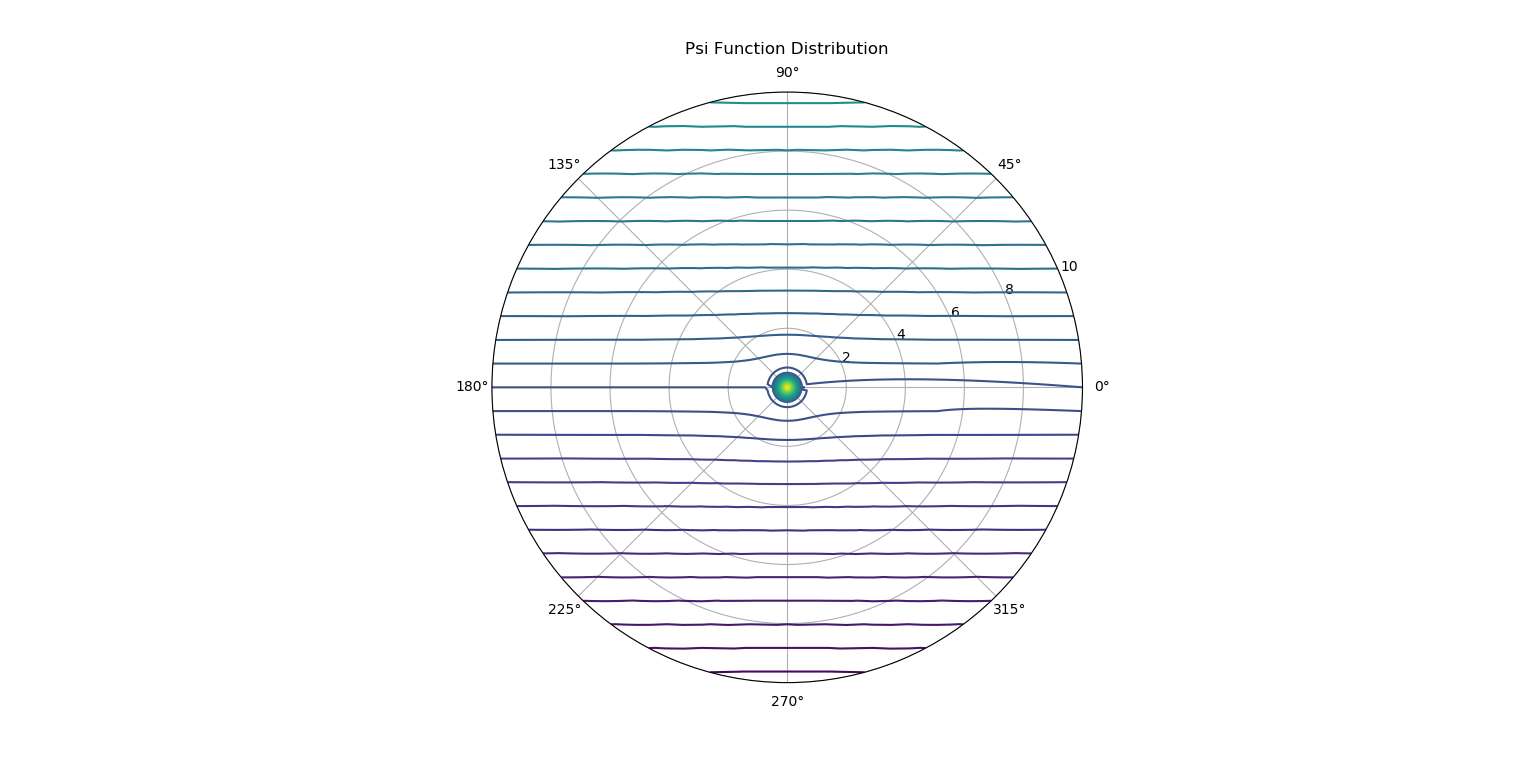
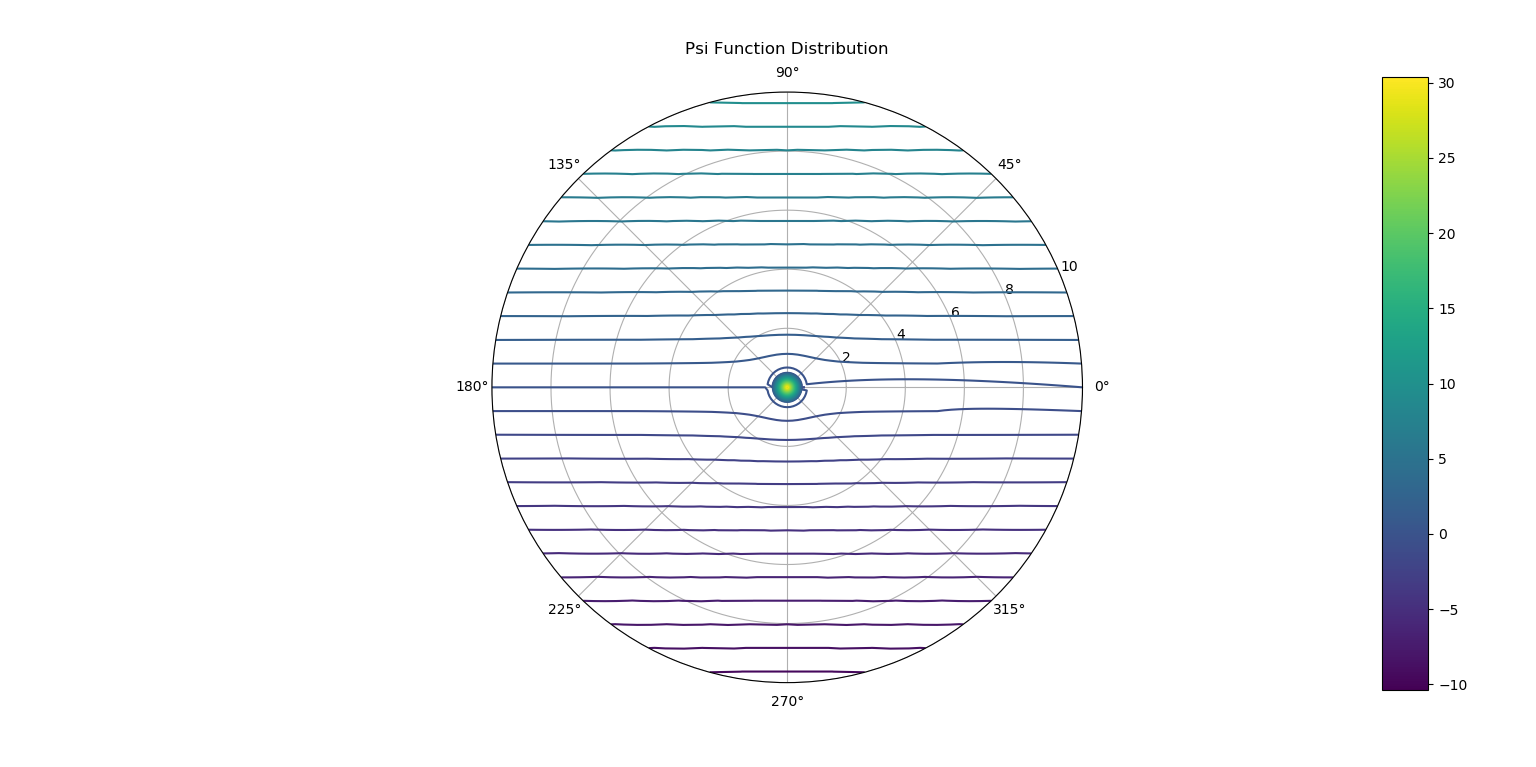
Fixed style

Changed region(s): [[0.875, 0.09, 0.9375, 0.8996]]

diff --git a/src/Phi.py b/src/Phi.py
@@ -3,31 +3,32 @@ from pylab import *
 import numpy as np
 from pytictoc import TicToc
 
-def phi_distribution(U_inf, r, theta, N_r, N_theta, d, Delta_r, Delta_theta):
-    phi = 30 * np.ones((N_r + 1, N_theta)) #phi matrix initialization
-    n = 0 #iteration counter
-    tol = 10**(-5) #error tolerance
 
-    #Boundary Conditions
+def phi_distribution(U_inf, r, theta, N_r, N_theta, d, Delta_r, Delta_theta):
+    phi = 30 * np.ones((N_r + 1, N_theta))  # phi matrix initialization
+    n = 0  # iteration counter
+    tol = 10**(-5)  # error tolerance
+
+    # Boundary Conditions
     for j in range(0, N_theta):
         phi[0][j] = U_inf * r[0] * (1 + (d / 2)**2 / r[0]**2) * cos(theta[j])
 
-    #Next iteration phi matrix initialization
+    # Next iteration phi matrix initialization
     phi_new = phi.copy()
 
-    #Iterative Procedure with the Gauss-Seidel method
-    max_error = 1 # error initialization (max_error > tol)
+    # Iterative Procedure with the Gauss-Seidel method
+    max_error = 1  # error initialization (max_error > tol)
     t = TicToc()
     t.tic()
     while max_error > tol:
-        error_matrix = np.zeros((N_r, N_theta)) #reset error at each node
+        error_matrix = np.zeros((N_r, N_theta))  # reset error at each node
         n = n + 1
         for i in range(1, N_r):
-            JP = 2 / Delta_r**2 + 2 / (r[i]**2 * Delta_theta**2) #center node
-            JE = 1 / (2 * r[i] * Delta_r) + 1 / Delta_r**2 #east node
-            JW = -1 / (2 * r[i] * Delta_r) + 1 / Delta_r**2 #west node
-            JN = 1 / (r[i]**2 * Delta_theta**2) #north node
-            JS = 1 / (r[i]**2 * Delta_theta**2) #south node
+            JP = 2 / Delta_r**2 + 2 / (r[i]**2 * Delta_theta**2)  # center node
+            JE = 1 / (2 * r[i] * Delta_r) + 1 / Delta_r**2  # east node
+            JW = -1 / (2 * r[i] * Delta_r) + 1 / Delta_r**2  # west node
+            JN = 1 / (r[i]**2 * Delta_theta**2)  # north node
+            JS = 1 / (r[i]**2 * Delta_theta**2)  # south node
 
             for j in range(0, N_theta):
                 if i == N_r - 1:
@@ -51,30 +52,30 @@ def phi_distribution(U_inf, r, theta, N_r, N_theta, d, Delta_r, Delta_theta):
             print('Error: ', max_error)
     t.toc("Convergence achieved in")
 
-    #Analytical Solution
+    # Analytical Solution
     phi_an = phi.copy()
     for i in range(0, N_r - 1):
         for j in range(0, N_theta):
             phi_an[i][j] = U_inf * r[i] * (1 + (d / 2)**2 / r[i]**2) * cos(theta[j])
 
-    #Analytical Solution Plot
+    # Analytical Solution Plot
     fig = plt.figure(1)
-    ax = subplot(111, polar = True)
+    ax = subplot(111, polar=True)
     p1 = ax.contour(theta, r, phi_an, 100)
     vmin, vmax = p1.get_clim()
-    cNorm = mpl.colors.Normalize(vmin = vmin, vmax = vmax)
+    cNorm = mpl.colors.Normalize(vmin=vmin, vmax=vmax)
     ax1 = fig.add_axes([0.9, 0.1, 0.03, 0.8])
-    cb1 = mpl.colorbar.ColorbarBase(ax1, norm = cNorm)
+    mpl.colorbar.ColorbarBase(ax1, norm=cNorm)
     ax.set_title("Analytical Solution: Phi Function Distribution")
 
-    #Computational Solution Plot
+    # Computational Solution Plot
     fig2 = plt.figure(2)
-    ax2 = subplot(111, polar = True)
+    ax2 = subplot(111, polar=True)
     p2 = ax2.contour(theta, r, phi, 100)
     vmin2, vmax2 = p2.get_clim()
-    cNorm2 = mpl.colors.Normalize(vmin = vmin2, vmax = vmax2)
+    cNorm2 = mpl.colors.Normalize(vmin=vmin2, vmax=vmax2)
     ax3 = fig2.add_axes([0.9, 0.1, 0.03, 0.8])
-    cb2 = mpl.colorbar.ColorbarBase(ax3, norm = cNorm2)
+    mpl.colorbar.ColorbarBase(ax3, norm=cNorm2)
     ax2.set_title("Computational Solution: Phi Function Distribution")
     plt.show()
 

diff --git a/src/Main.py b/src/Main.py
@@ -6,28 +6,29 @@ from Cp import Cp_distribution
 from Psi import psi_distribution
 from Pressure import pressure_distribution
 
-#Known Parameters
+
+# Known Parameters
 while True:
     try:
-        U_inf = float(input("Enter the freestream velocity value [m/s]:")) #freestream velocity in m/s
+        U_inf = float(input("Enter the freestream velocity value [m/s]:"))
     except ValueError:
         print("Velocity value has to be a number. Please try again.")
         continue
     else:
         break
-d = 1 #cylinder diameter in m
+d = 1  # cylinder diameter in m
 d_in = d / 2
-d_2 = 20 * d #computational space diameter in m
+d_2 = 20 * d  # computational space diameter in m
 d_out = d_2 / 2
-r_inf = 1.225 #Atmospheric Density in kg/m^3
-P_inf = 101.325 #Atmospheric Pressure in kPa
-N_theta = 41  #nodes in theta-direction
-N_r = 40 #nodes in r-direction
-theta = np.linspace(0, 2 * pi, N_theta)  #variation in theta-direction
-r = np.zeros(N_r + 1) #r-direction matrix initialization
-r[0:N_r] = np.linspace(d_out, d_in, N_r) #variation in r-direction
-Delta_r = r[1] - r[0] #r-direction step
-Delta_theta = theta[1] - theta[0] #theta-direction step
+r_inf = 1.225  # Atmospheric Density in kg/m^3
+P_inf = 101.325  # Atmospheric Pressure in kPa
+N_theta = 41   # nodes in theta-direction
+N_r = 40  # nodes in r-direction
+theta = np.linspace(0, 2 * pi, N_theta)   # variation in theta-direction
+r = np.zeros(N_r + 1)  # r-direction matrix initialization
+r[0:N_r] = np.linspace(d_out, d_in, N_r)  # variation in r-direction
+Delta_r = r[1] - r[0]  # r-direction step
+Delta_theta = theta[1] - theta[0]  # theta-direction step
 
 phi = phi_distribution(U_inf, r, theta, N_r, N_theta, d, Delta_r, Delta_theta)
 V_r, V_theta = velocity_vectors(r, theta, N_r, N_theta, Delta_r, Delta_theta, phi)

diff --git a/src/Psi.py b/src/Psi.py
@@ -2,8 +2,9 @@ import matplotlib.pyplot as plt
 from pylab import *
 import numpy as np
 
+
 def psi_distribution(U_inf, r, theta, N_r, N_theta, d, Delta_r, V_theta):
-    psi = 30 * np.ones((N_r + 1, N_theta)) #psi matrix initialization
+    psi = 30 * np.ones((N_r + 1, N_theta))  # psi matrix initialization
 
     for i in range(0, N_r):
         for j in range(0, N_theta):
@@ -12,9 +13,13 @@ def psi_distribution(U_inf, r, theta, N_r, N_theta, d, Delta_r, V_theta):
             else:
                 psi[i][j] = -Delta_r * V_theta[i][j] + psi[i - 1][j]
 
-    #Psi Function Plot
+    # Psi Function Plot
     fig6 = plt.figure(6)
-    ax6 = subplot(111, polar = True)
+    ax6 = subplot(111, polar=True)
     p6 = ax6.contour(theta, r, psi, 50)
+    vmin6, vmax6 = p6.get_clim()
+    cNorm6 = mpl.colors.Normalize(vmin=vmin6, vmax=vmax6)
+    ax = fig6.add_axes([0.9, 0.1, 0.03, 0.8])
+    mpl.colorbar.ColorbarBase(ax, norm=cNorm6)
     ax6.set_title("Psi Function Distribution")
     plt.show()

diff --git a/src/Pressure.py b/src/Pressure.py
@@ -2,6 +2,7 @@ import matplotlib.pyplot as plt
 from pylab import *
 import numpy as np
 
+
 def pressure_distribution(U_inf, r_inf, P_inf, r, theta, N_r, N_theta, Cp):
 
     P = np.zeros((N_r + 1, N_theta))
@@ -9,13 +10,13 @@ def pressure_distribution(U_inf, r_inf, P_inf, r, theta, N_r, N_theta, Cp):
         for j in range(0, N_theta):
             P[i][j] = (1 / 2) * Cp[i][j] * r_inf * U_inf**2 + P_inf
 
-    #Pressure Plot
+    # Pressure Plot
     fig7 = plt.figure(7)
-    ax7 = subplot(111, polar = True)
+    ax7 = subplot(111, polar=True)
     p7 = ax7.contourf(theta, r, P, 500)
     vmin7, vmax7 = p7.get_clim()
-    cNorm7 = mpl.colors.Normalize(vmin = vmin7, vmax = vmax7)
+    cNorm7 = mpl.colors.Normalize(vmin=vmin7, vmax=vmax7)
     ax8 = fig7.add_axes([0.9, 0.1, 0.03, 0.8])
-    cb8 = mpl.colorbar.ColorbarBase(ax8, norm = cNorm7)
+    mpl.colorbar.ColorbarBase(ax8, norm=cNorm7)
     ax7.set_title("Pressure Distribution")
     plt.show()

diff --git a/src/Velocity.py b/src/Velocity.py
@@ -2,6 +2,7 @@ import matplotlib.pyplot as plt
 from pylab import *
 import numpy as np
 
+
 def velocity_vectors(r, theta, N_r, N_theta, Delta_r, Delta_theta, phi):
     V_r = np.zeros((N_r + 1, N_theta))
     for i in range(0, N_r + 1):
@@ -33,9 +34,10 @@ def velocity_vectors(r, theta, N_r, N_theta, Delta_r, Delta_theta, phi):
             u[i][j] = V_r[i][j] * cos(theta[j]) - V_theta[i][j] * sin(theta[j])
             v[i][j] = V_r[i][j] * sin(theta[j]) + V_theta[i][j] * cos(theta[j])
 
+    # Velocity Vectors Plot
     f = plt.figure(3)
-    ax5 = f.add_subplot(111, polar = True)
-    ax5.quiver(theta, r, u, v, linewidths = 2, scale = 40, color = 'blue')
+    ax5 = f.add_subplot(111, polar=True)
+    ax5.quiver(theta, r, u, v, linewidths=2, scale=40, color='blue')
     ax5.set_title("Velocity Vector Field")
     plt.show()
     return [V_r, V_theta]

diff --git a/src/Cp.py b/src/Cp.py
@@ -1,10 +1,11 @@
 import matplotlib.pyplot as plt
 from pylab import *
 
+
 def Cp_distribution(U_inf, N_r, V_r, V_theta, theta):
     Cp = 1. - (V_r**2 + V_theta**2) / U_inf**2
 
-    #Cp Plot
+    # Cp Plot
     plt.figure(5)
     plt.plot(theta * 180 / pi, Cp[N_r - 1, :])
     plt.title("Pressure Factor Distribution on the Cylinder")
